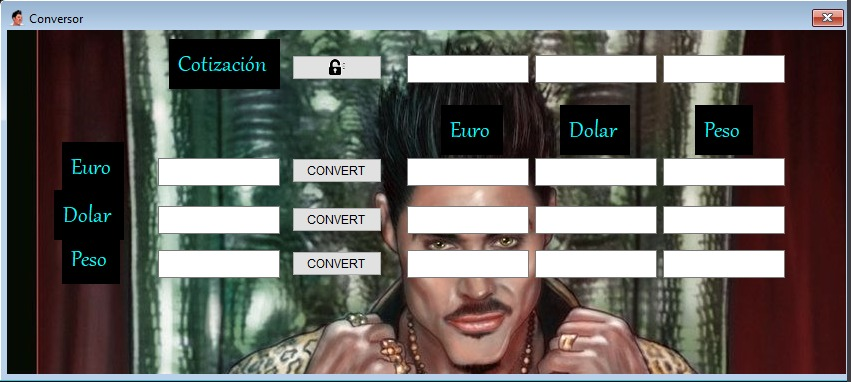
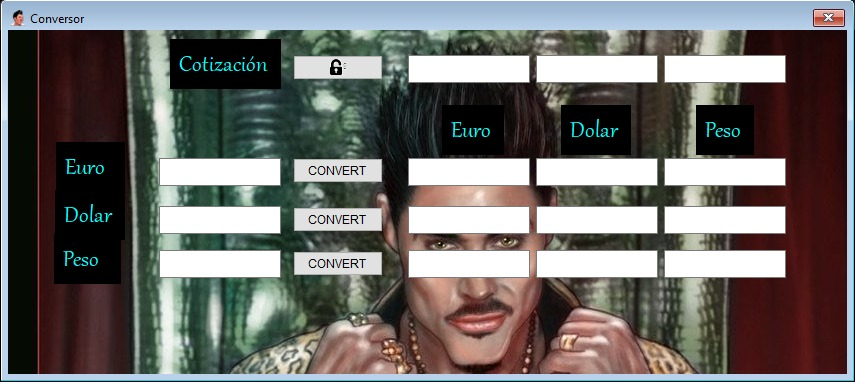
Ejercicio - 23 [Incompleto]

diff --git a/Ejercicio_23/Ejercicio_23/Form1.Designer.cs b/Ejercicio_23/Ejercicio_23/Form1.Designer.cs
@@ -51,13 +51,13 @@ namespace Ejercicio_23
             this.labelDolar = new System.Windows.Forms.Label();
             this.labelPeso = new System.Windows.Forms.Label();
             this.btnCotizacion = new System.Windows.Forms.Button();
+            this.Candados = new System.Windows.Forms.ImageList(this.components);
             this.lblEuro = new System.Windows.Forms.Label();
             this.lblDolar = new System.Windows.Forms.Label();
             this.lblPeso = new System.Windows.Forms.Label();
             this.btnConvertEuro = new System.Windows.Forms.Button();
             this.btnConvertDolar = new System.Windows.Forms.Button();
             this.btnConvertPeso = new System.Windows.Forms.Button();
-            this.Candados = new System.Windows.Forms.ImageList(this.components);
             this.SuspendLayout();
             // 
             // txtBoxPeso
@@ -254,15 +254,21 @@ namespace Ejercicio_23
             this.btnCotizacion.UseVisualStyleBackColor = true;
             this.btnCotizacion.Click += new System.EventHandler(this.btnCotizacion_Click);
             // 
+            // Candados
+            // 
+            this.Candados.ImageStream = ((System.Windows.Forms.ImageListStreamer)(resources.GetObject("Candados.ImageStream")));
+            this.Candados.TransparentColor = System.Drawing.Color.Transparent;
+            this.Candados.Images.SetKeyName(0, "padlock.png");
+            this.Candados.Images.SetKeyName(1, "lock.png");
+            // 
             // lblEuro
             // 
-            this.lblEuro.AutoSize = true;
             this.lblEuro.BackColor = System.Drawing.SystemColors.WindowText;
             this.lblEuro.Font = new System.Drawing.Font("Gabriola", 20F, System.Drawing.FontStyle.Regular, System.Drawing.GraphicsUnit.Point, ((byte)(0)));
             this.lblEuro.ForeColor = System.Drawing.Color.Cyan;
-            this.lblEuro.Location = new System.Drawing.Point(55, 112);
+            this.lblEuro.Location = new System.Drawing.Point(48, 112);
             this.lblEuro.Name = "lblEuro";
-            this.lblEuro.Size = new System.Drawing.Size(62, 50);
+            this.lblEuro.Size = new System.Drawing.Size(69, 50);
             this.lblEuro.TabIndex = 20;
             this.lblEuro.Text = "Euro";
             // 
@@ -280,13 +286,12 @@ namespace Ejercicio_23
             // 
             // lblPeso
             // 
-            this.lblPeso.AutoSize = true;
             this.lblPeso.BackColor = System.Drawing.SystemColors.WindowText;
             this.lblPeso.Font = new System.Drawing.Font("Gabriola", 20F, System.Drawing.FontStyle.Regular, System.Drawing.GraphicsUnit.Point, ((byte)(0)));
             this.lblPeso.ForeColor = System.Drawing.Color.Cyan;
-            this.lblPeso.Location = new System.Drawing.Point(55, 204);
+            this.lblPeso.Location = new System.Drawing.Point(46, 204);
             this.lblPeso.Name = "lblPeso";
-            this.lblPeso.Size = new System.Drawing.Size(58, 50);
+            this.lblPeso.Size = new System.Drawing.Size(67, 50);
             this.lblPeso.TabIndex = 22;
             this.lblPeso.Text = "Peso";
             // 
@@ -326,13 +331,6 @@ namespace Ejercicio_23
             this.btnConvertPeso.TabIndex = 25;
             this.btnConvertPeso.Text = "CONVERT";
             this.btnConvertPeso.UseVisualStyleBackColor = true;
-            // 
-            // Candados
-            // 
-            this.Candados.ImageStream = ((System.Windows.Forms.ImageListStreamer)(resources.GetObject("Candados.ImageStream")));
-            this.Candados.TransparentColor = System.Drawing.Color.Transparent;
-            this.Candados.Images.SetKeyName(0, "padlock.png");
-            this.Candados.Images.SetKeyName(1, "lock.png");
             // 
             // Conversor
             // 
